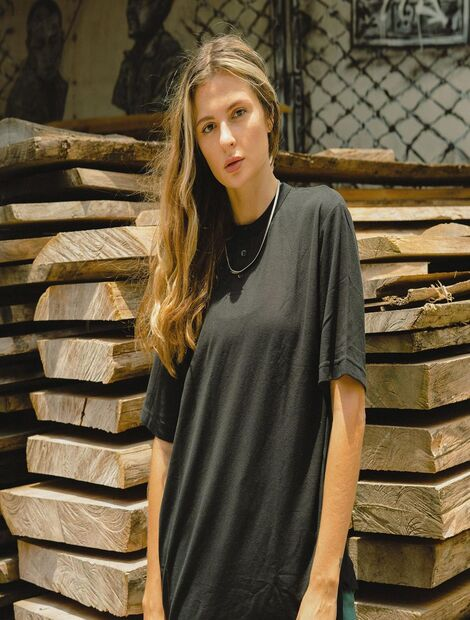
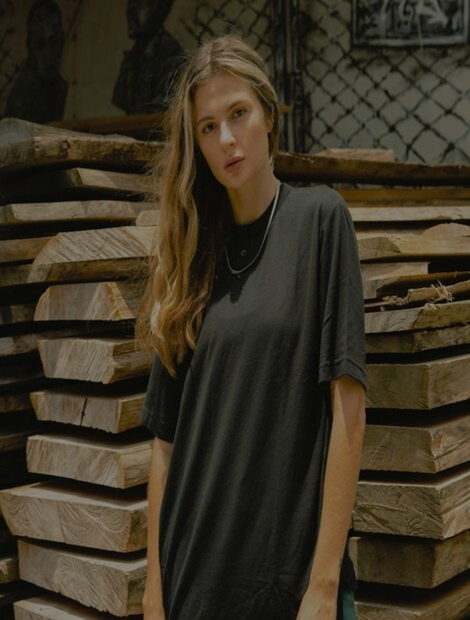
ganti men

diff --git a/index.html b/index.html
@@ -500,7 +500,7 @@
           <div class="col-lg-3 offset-lg-1">
             <div
               class="product-large set-bg m-large"
-              data-setbg="img/products/man-large.jpg"
+              data-setbg="img/products/men-9.jpg"
             >
               <h2>Men’s</h2>
               <a href="#">Discover More</a>
